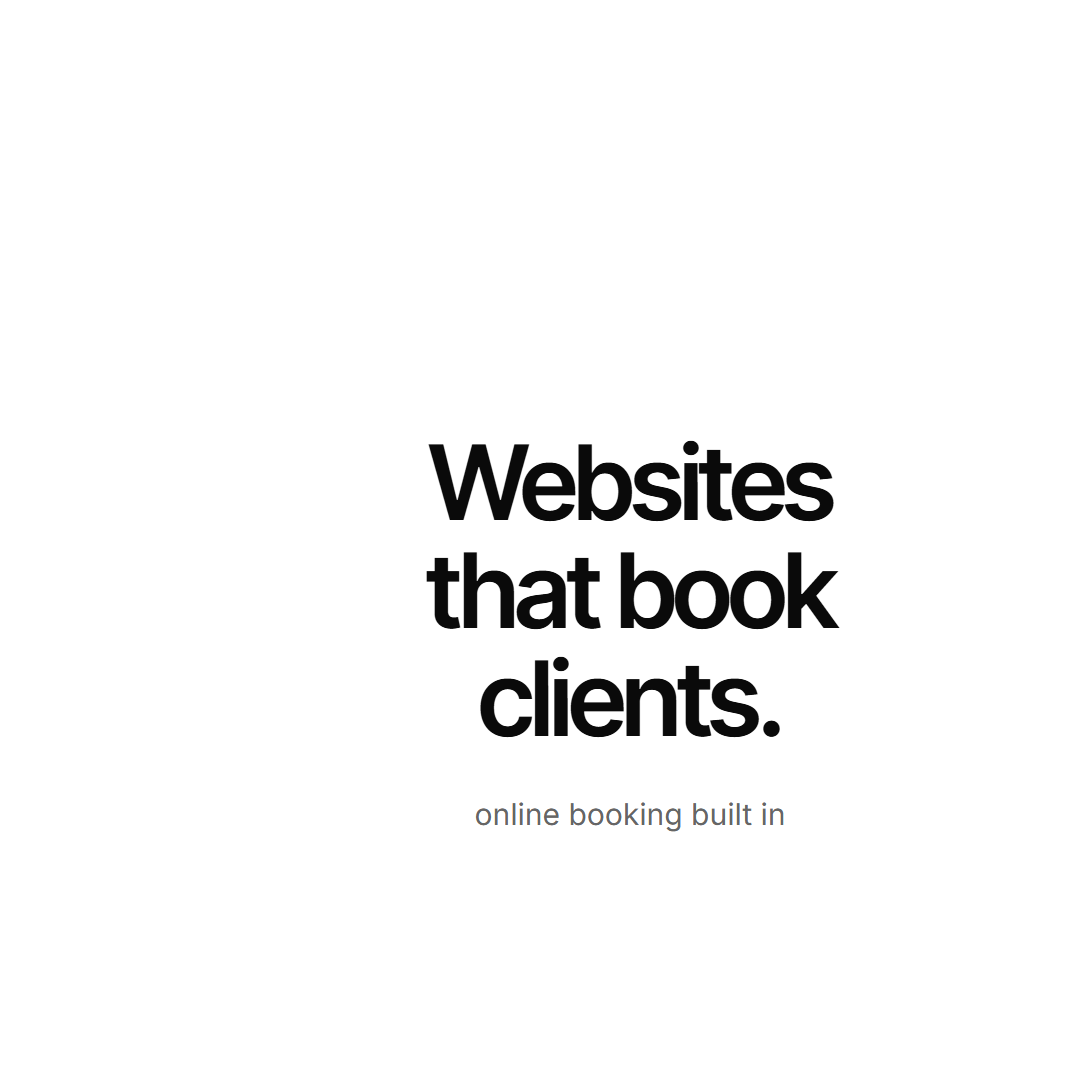
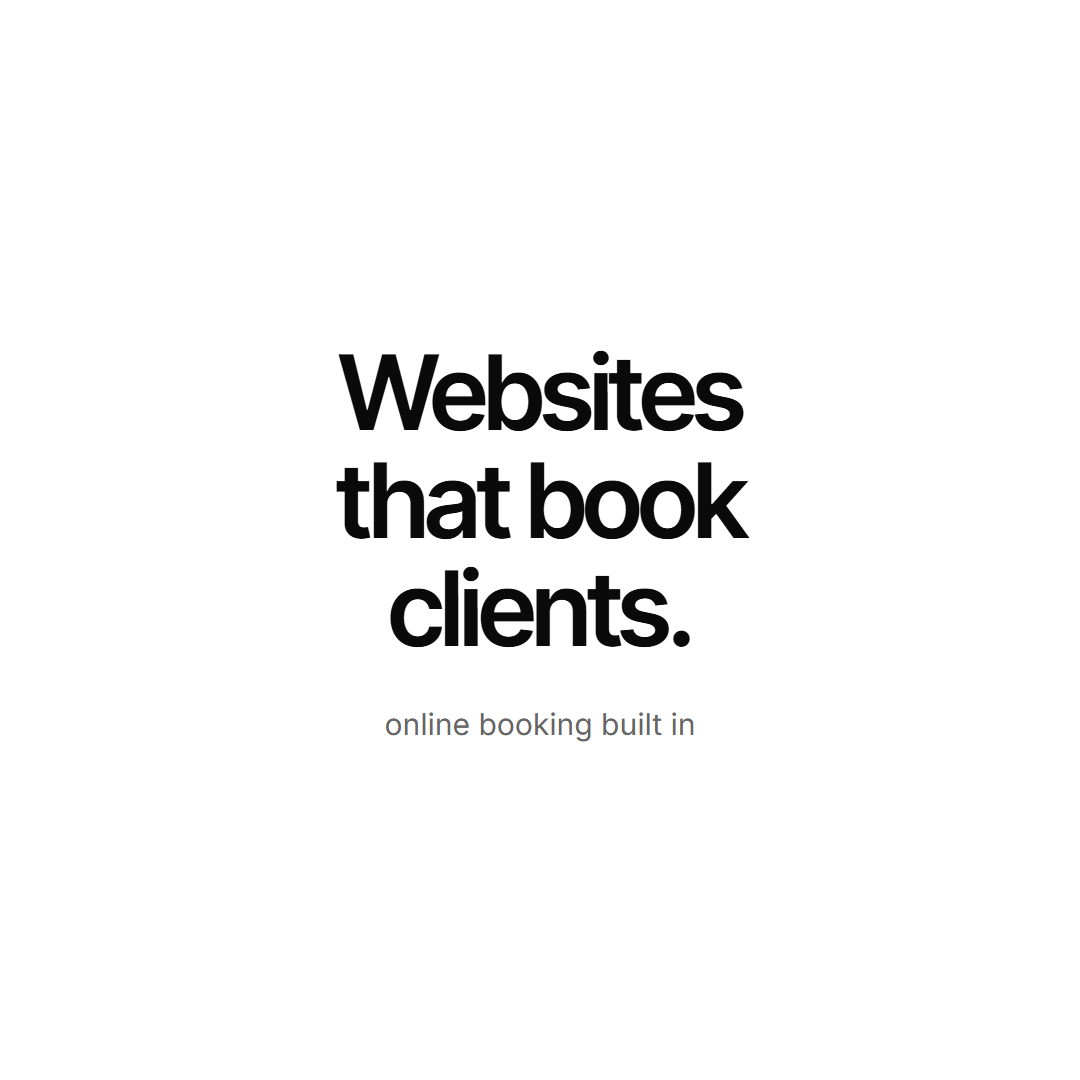
Fix post tiles 04/05 centering (box-sizing on padded tiles)

Changed region(s): [[0.3056, 0.3056, 0.7944, 0.7028], [0.4278, 0.7333, 0.7333, 0.7639]]

diff --git a/social/gen-posts.js b/social/gen-posts.js
@@ -13,7 +13,7 @@ fs.mkdirSync(OUT, { recursive: true });
 fs.mkdirSync(TMP, { recursive: true });
 
 const FONTS = 'https://fonts.googleapis.com/css2?family=Oswald:wght@600;700&family=Cormorant+Garamond:ital,wght@0,600;1,500&family=Inter+Tight:wght@500;600&family=Inter:wght@400;500&display=swap';
-const box = 'width:1080px;height:1080px;display:flex;flex-direction:column;align-items:center;justify-content:center;text-align:center;overflow:hidden;';
+const box = 'box-sizing:border-box;width:1080px;height:1080px;display:flex;flex-direction:column;align-items:center;justify-content:center;text-align:center;overflow:hidden;';
 
 const tiles = [
   { name: '01-raven', html:
@@ -58,7 +58,7 @@ const tiles = [
 const page = (inner) => `<!doctype html><html><head><meta charset="utf-8">
 <link rel="preconnect" href="https://fonts.gstatic.com" crossorigin>
 <link href="${FONTS}" rel="stylesheet">
-<style>html,body{margin:0;padding:0;background:#fff;}</style></head><body>${inner}</body></html>`;
+<style>*{box-sizing:border-box;}html,body{margin:0;padding:0;background:#fff;}</style></head><body>${inner}</body></html>`;
 
 let ok = 0;
 for (const t of tiles) {